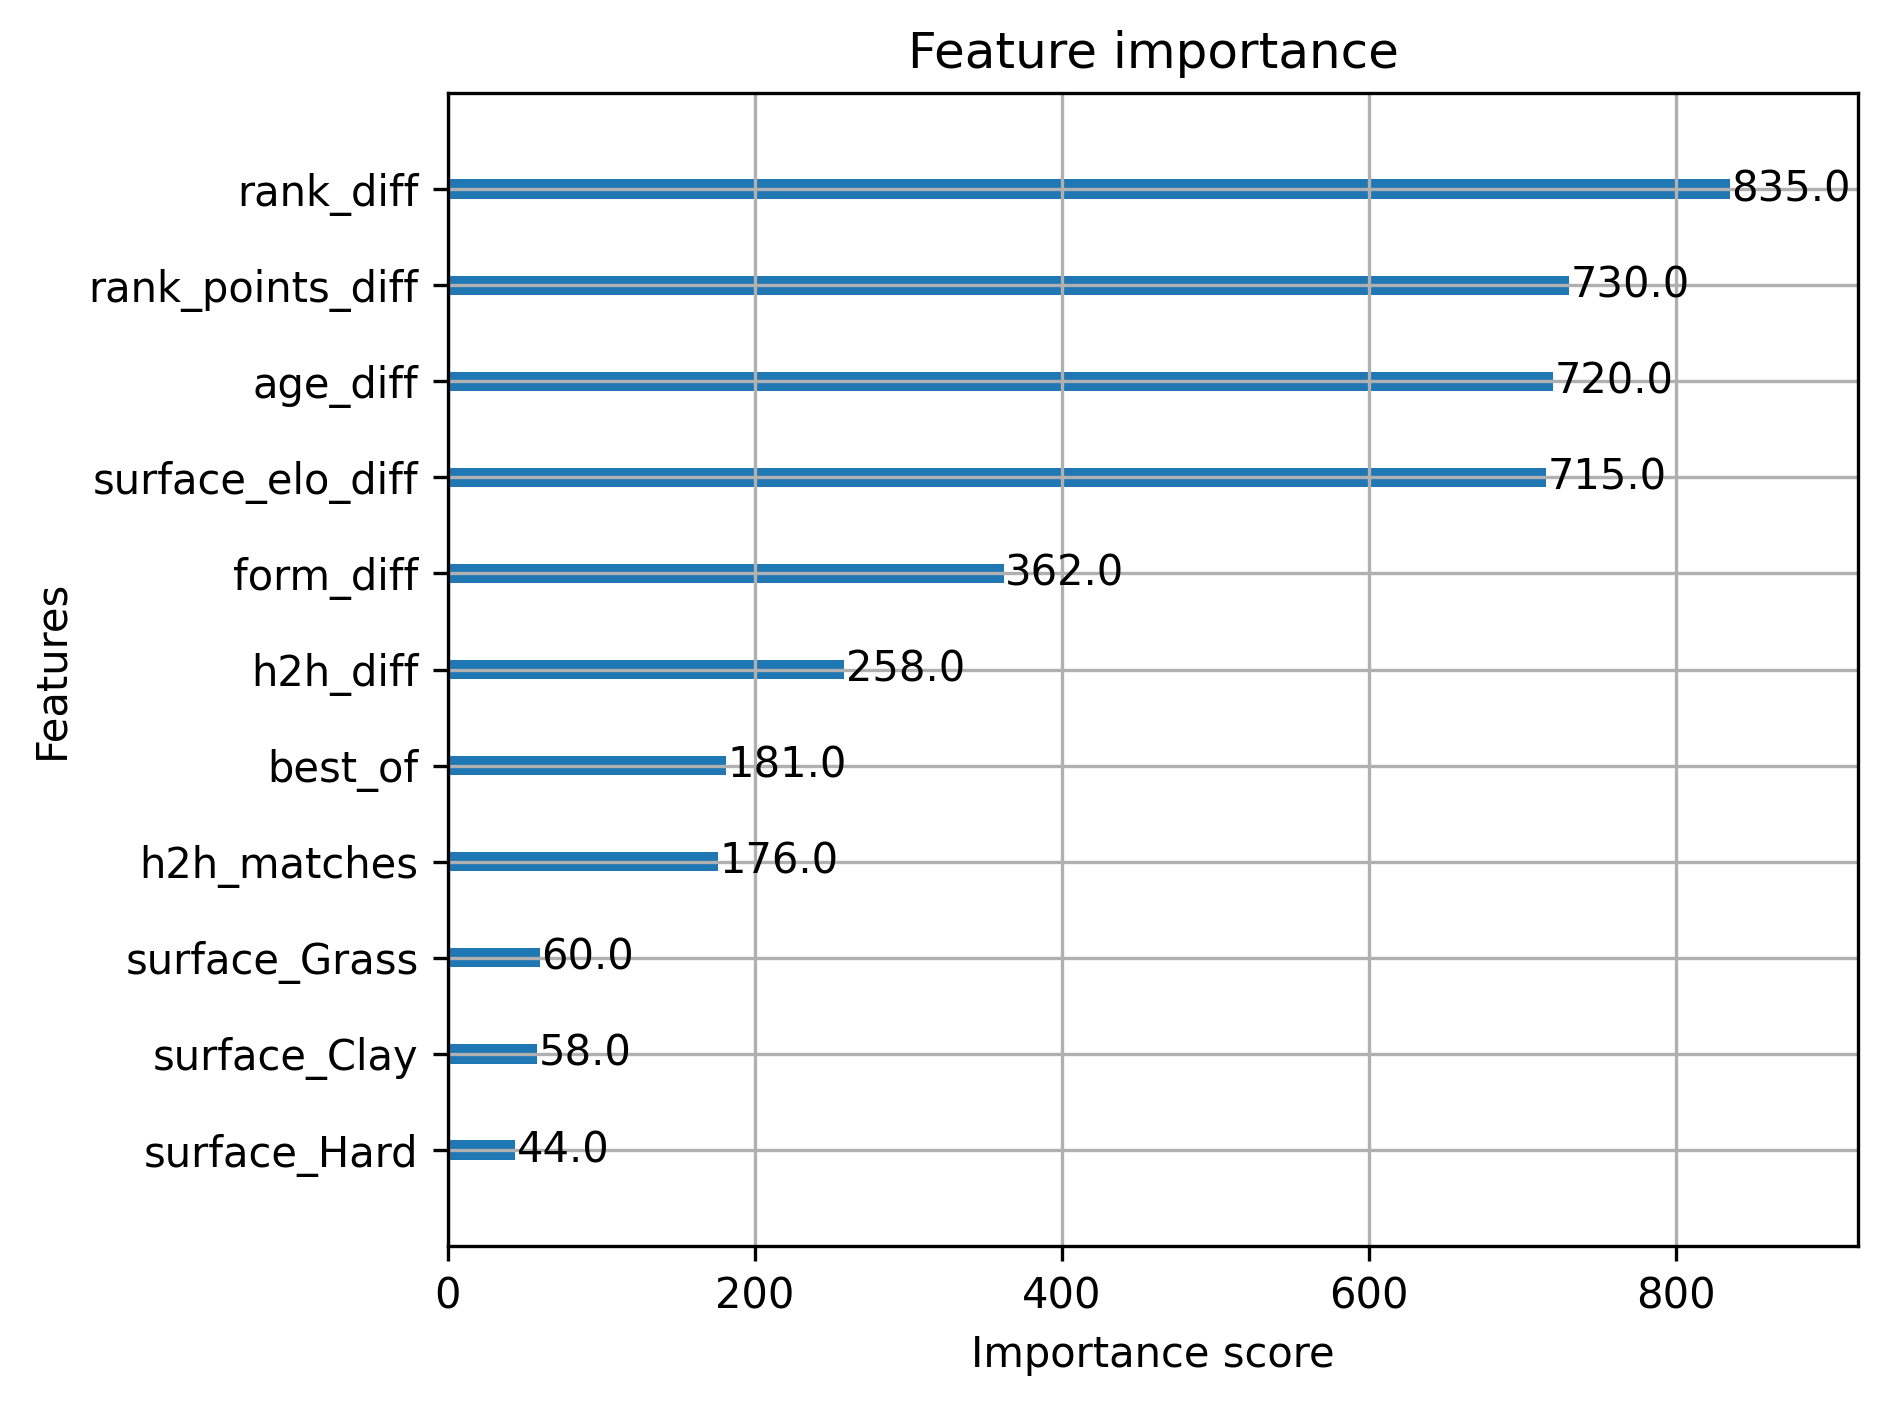
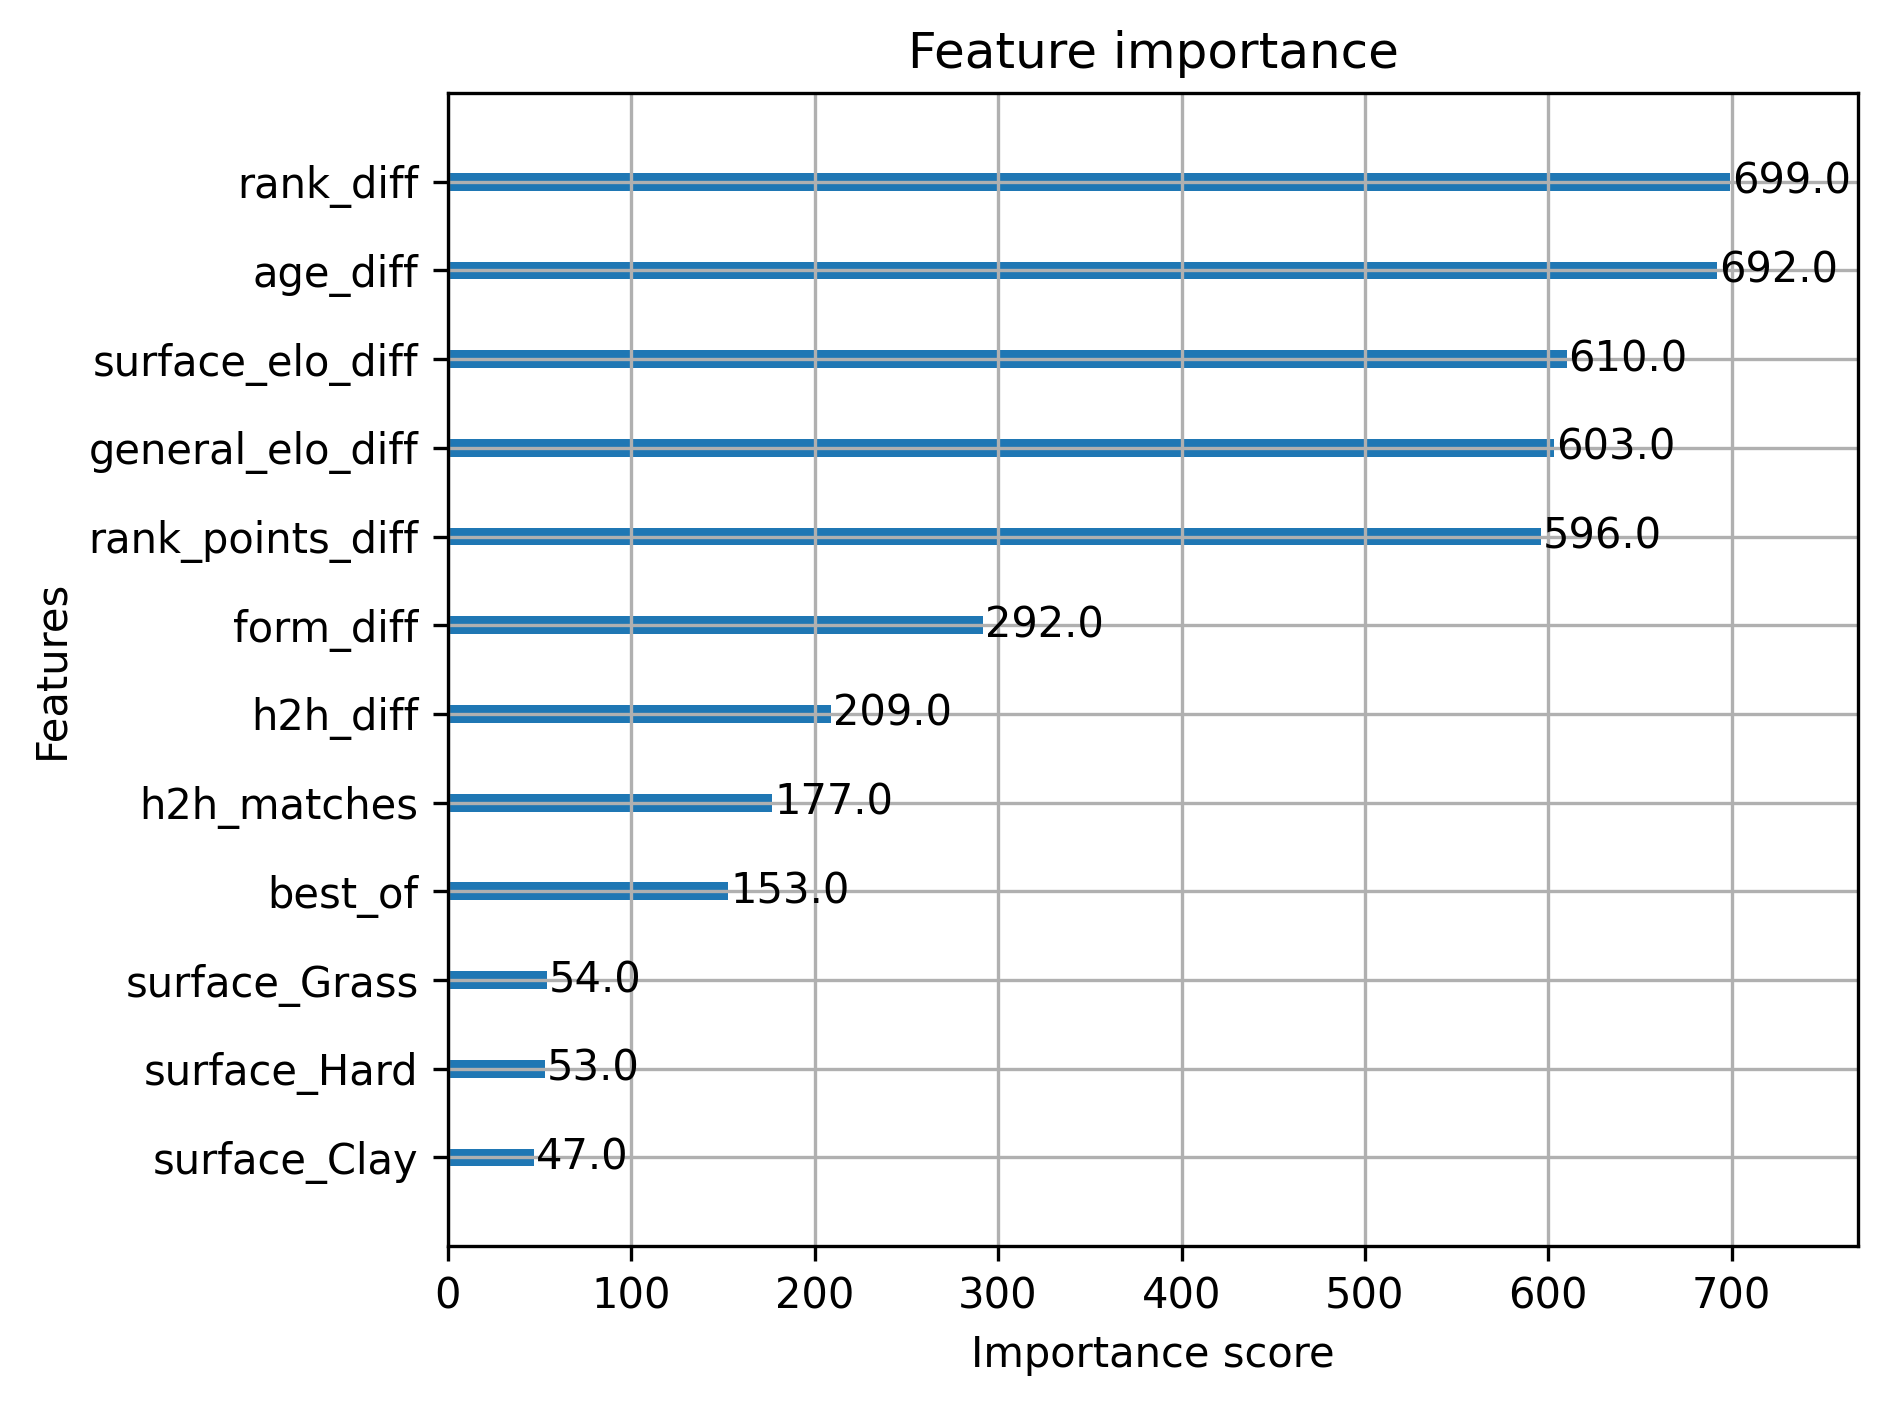
Add general ELO tracking and update model features

diff --git a/src/preprocessing.py b/src/preprocessing.py
@@ -103,10 +103,12 @@ def create_model_data(data):
     cELO_tracker = {}
     hELO_tracker = {}
     gELO_tracker = {}
-
+    generalELO_tracker = {}
     
     p1elo_list = []
     p2elo_list=  []
+    p1_general_elo_list = []
+    p2_general_elo_list = []
 
 
 
@@ -115,6 +117,7 @@ def create_model_data(data):
         p1 = row["player_1_id"]
         p2 = row["player_2_id"]
         target = row["target"]
+       
         
         if (row["surface"] == "Hard"):
             ELO_tracker = hELO_tracker
@@ -137,6 +140,20 @@ def create_model_data(data):
             ELO_tracker[p1] = 1500
         if p2 not in ELO_tracker:
             ELO_tracker[p2] = 1500
+
+        if p1 not in generalELO_tracker:
+            generalELO_tracker[p1] = 1500
+
+        if p2 not in generalELO_tracker:
+            generalELO_tracker[p2] = 1500
+
+        g1 = generalELO_tracker[p1]
+        g2 = generalELO_tracker[p2]
+
+        p1_general_elo_list.append(g1)
+        p2_general_elo_list.append(g2)
+        
+
 
         #get last 10 results
         p1_ten = form_tracker[p1][-10:]
@@ -176,6 +193,10 @@ def create_model_data(data):
         #expected probability based on ELO
         E_a = 1 / (1 + 10**((p2ELO-p1ELO)/400))
         E_b = 1 - E_a
+
+        E_a_general = 1/(1 + 10**((g2-g1)/400))
+        E_b_general = 1 - E_a_general
+
         # update the tracker with the result of this match for the future
         if target == 1:
             h2h_tracker[matchup_k][p1] += 1
@@ -184,7 +205,8 @@ def create_model_data(data):
             #update ELO with match result
             ELO_tracker[p1] = p1ELO + 32 * (1 - E_a) 
             ELO_tracker[p2] = p2ELO + 32 * (0 - E_b)
-
+            generalELO_tracker[p1] = g1 + 32*(1-E_a_general)
+            generalELO_tracker[p2] = g2 + 32*(0-E_b_general)
 
         else:
             h2h_tracker[matchup_k][p2] += 1
@@ -192,7 +214,8 @@ def create_model_data(data):
             form_tracker[p2].append(1)
             ELO_tracker[p1] = p1ELO + 32 * (0 - E_a) 
             ELO_tracker[p2] = p2ELO + 32 * (1 - E_b)
-
+            generalELO_tracker[p1] = g1 + 32*(0-E_a_general)
+            generalELO_tracker[p2] = g2 + 32*(1-E_b_general)
         
 
     clean_data['p1_historical_h2h_wins'] = p1_h2h_wins
@@ -209,6 +232,13 @@ def create_model_data(data):
     clean_data["p2_surface_elo"] = p2elo_list
     clean_data["surface_elo_diff"] = (
         clean_data["p1_surface_elo"] - clean_data["p2_surface_elo"]
+    )
+    
+    clean_data["p1_general_elo"] = p1_general_elo_list
+    clean_data["p2_general_elo"] = p2_general_elo_list
+
+    clean_data["general_elo_diff"] = (
+        clean_data["p1_general_elo"] - clean_data["p2_general_elo"]
     )
     clean_data = clean_data.reset_index(drop=True)
 

diff --git a/src/train_model.py b/src/train_model.py
@@ -22,7 +22,8 @@ def train_baseline_model(model_data):
         "best_of",
         "rank_points_diff",
         "form_diff",
-        "surface_elo_diff"
+        "surface_elo_diff",
+        "general_elo_diff"
     ]
 
     target = "target"